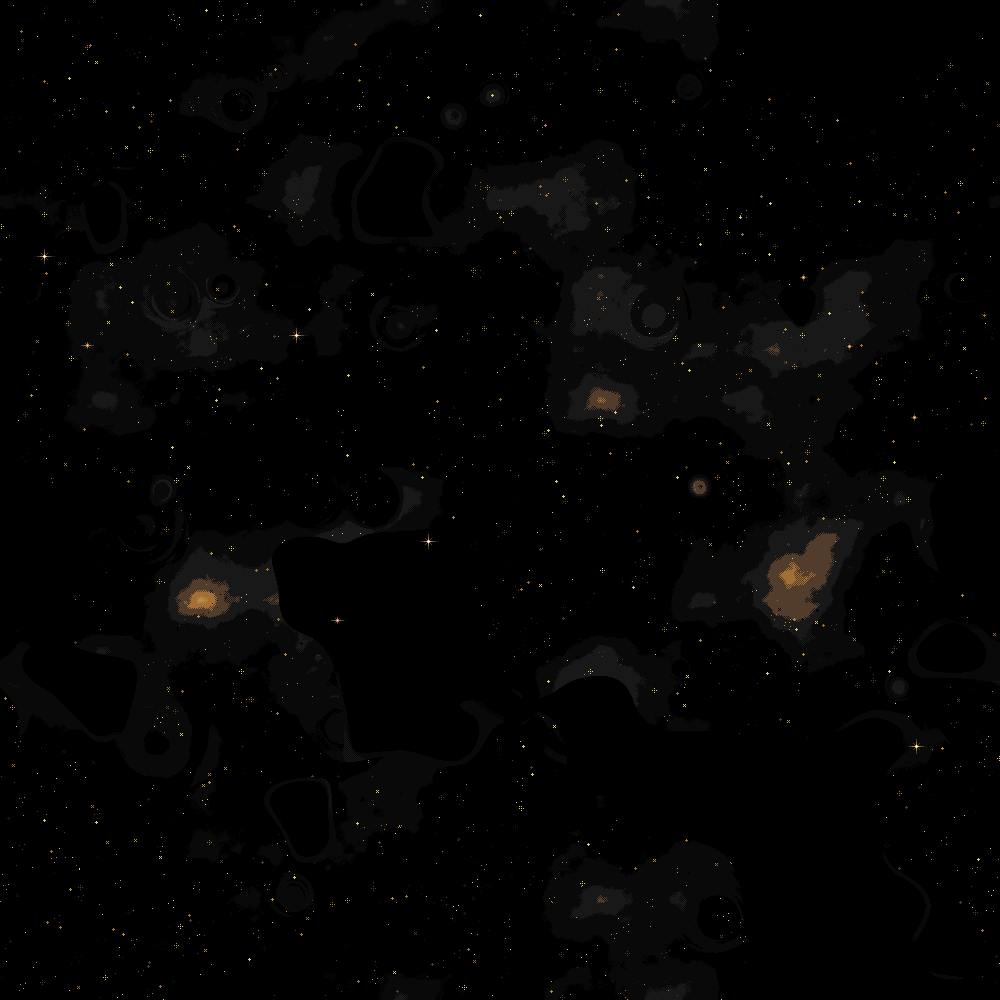
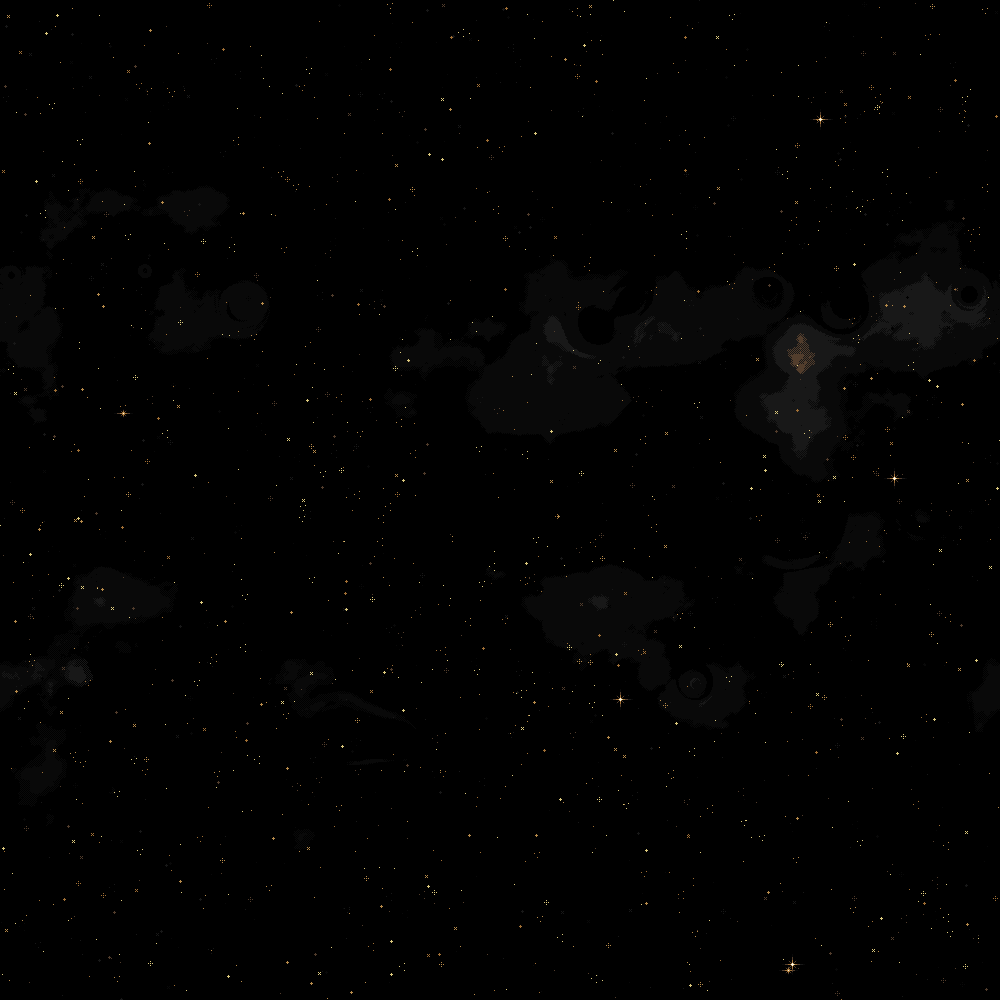
feat: add bg parallax

diff --git a/packages/client/src/screens/Game.tsx b/packages/client/src/screens/Game.tsx
@@ -9,6 +9,7 @@ import { GameProvider } from "src/hooks/providers/GameProvider";
 import { GameHUD } from "@/components/hud";
 import { WidgetProvider } from "src/hooks/providers/WidgetProvider";
 import { CommandBackgroundEffect } from "@/screens/CommandBackgroundEffect";
+import { BackgroundParallaxEffect } from "@/screens/BackgroundParallaxEffect";
 
 const params = new URLSearchParams(window.location.search);
 
@@ -65,16 +66,19 @@ export const Game = () => {
 
       {/* cannot unmount. needs to be visible for phaser to attach to DOM element */}
       <div id="game-container" className="screen-container">
-        <CommandBackgroundEffect />
-        <div id="phaser-container" className="cursor-pointer screen-container absolute">
-          {!!game && (
-            <GameProvider {...game}>
-              <WidgetProvider>
+        <div id="phaser-container" className="cursor-pointer screen-container absolute pointer-events-auto z-10"></div>
+        {!!game && (
+          <GameProvider {...game}>
+            <BackgroundParallaxEffect />
+            <CommandBackgroundEffect />
+            <WidgetProvider>
+              <div className="relative z-20 pointer-events-none">
                 {isDead && <YouDied />} <GameHUD />
-              </WidgetProvider>
-            </GameProvider>
-          )}
-        </div>
+                <div id="modal-root" className="pointer-events-auto" />
+              </div>
+            </WidgetProvider>
+          </GameProvider>
+        )}
       </div>
     </div>
   );

diff --git a/packages/client/src/screens/BackgroundParallaxEffect.tsx b/packages/client/src/screens/BackgroundParallaxEffect.tsx
@@ -1,0 +1,46 @@
+import { ModeToSceneKey } from "@/game/lib/mappings";
+import { useGame } from "@/hooks/useGame";
+import { components } from "@/network/components";
+import { lerp } from "@/util/common";
+import { Mode } from "@/util/constants";
+import { memo, useEffect, useRef } from "react";
+
+export const BackgroundParallaxEffect = memo(() => {
+  const selectedMode = components.SelectedMode.use()?.value;
+  const game = useGame();
+  const ref = useRef<HTMLDivElement>(null);
+
+  useEffect(() => {
+    const sceneKey = ModeToSceneKey[selectedMode ?? Mode.Starmap];
+
+    const worldViewSub = game[sceneKey].camera.worldView$.subscribe((worldView) => {
+      if (ref.current) {
+        ref.current.style.backgroundPosition = `${-worldView.x * 0.01}px ${-worldView.y * 0.01}px`;
+      }
+    });
+
+    const zoomViewSub = game[sceneKey].camera.zoom$.subscribe((zoom) => {
+      if (ref.current) {
+        ref.current.style.transform = `scale(${lerp(
+          zoom,
+          game[sceneKey].config.camera.minZoom,
+          game[sceneKey].config.camera.maxZoom,
+          1,
+          1.25
+        )})`;
+      }
+    });
+
+    return () => {
+      worldViewSub?.unsubscribe();
+      zoomViewSub?.unsubscribe();
+    };
+  }, [selectedMode, game]);
+
+  return (
+    <>
+      <div ref={ref} className="absolute top-0 left-0 w-full h-full bg-black" />;
+      <div ref={ref} className="absolute top-0 left-0 w-full h-full star-background opacity-40" />;
+    </>
+  );
+});

diff --git a/packages/client/src/components/hud/asteroid/index.tsx b/packages/client/src/components/hud/asteroid/index.tsx
@@ -16,20 +16,18 @@ export const AsteroidHUD = memo(() => {
   if (!inAsteroidMode) return null;
 
   return (
-    <div className={`screen-container relative`}>
-      <HUD scale={uiScale}>
-        {/* MARKERS */}
-        <BuildingMenuPopup />
-        <BlueprintInfoMarker />
+    <HUD scale={uiScale}>
+      {/* MARKERS */}
+      <BuildingMenuPopup />
+      <BlueprintInfoMarker />
 
-        <HUD.Right>
-          <Inventory />
-        </HUD.Right>
+      <HUD.Right>
+        <Inventory />
+      </HUD.Right>
 
-        <HUD.Left>
-          <Blueprints />
-        </HUD.Left>
-      </HUD>
-    </div>
+      <HUD.Left>
+        <Blueprints />
+      </HUD.Left>
+    </HUD>
   );
 });

diff --git a/packages/client/src/components/hud/starbelt/index.tsx b/packages/client/src/components/hud/starbelt/index.tsx
@@ -14,15 +14,13 @@ export const StarbeltHUD = memo(() => {
   if (!isStarbeltOpen) return null;
 
   return (
-    <div className={`screen-container relative`}>
-      <HUD scale={uiScale}>
-        {/* MARKERS */}
-        <AsteroidMenuPopup />
+    <HUD scale={uiScale}>
+      {/* MARKERS */}
+      <AsteroidMenuPopup />
 
-        <HUD.Right>
-          <StarmapNavigator />
-        </HUD.Right>
-      </HUD>
-    </div>
+      <HUD.Right>
+        <StarmapNavigator />
+      </HUD.Right>
+    </HUD>
   );
 });

diff --git a/packages/client/src/components/core/HUD.tsx b/packages/client/src/components/core/HUD.tsx
@@ -176,7 +176,7 @@ export const HUD: FC<HUDProps> & {
   return (
     <ScaleContext.Provider value={scale}>
       <div className={`screen-container ${paddingClass} fixed top-0 right-0 pointer-events-none`}>
-        <div className={`h-full relative`}>{children}</div>
+        <div className={`h-full relative pointer-events-none`}>{children}</div>
       </div>
     </ScaleContext.Provider>
   );

diff --git a/packages/client/src/components/hud/index.tsx b/packages/client/src/components/hud/index.tsx
@@ -7,12 +7,12 @@ import { AsteroidLoading } from "@/components/hud/asteroid/AsteroidLoading";
 
 export const GameHUD = memo(() => {
   return (
-    <>
+    <div>
       <AsteroidHUD />
       <StarbeltHUD />
       <CommandCenterHUD />
       <GlobalHUD />
       <AsteroidLoading />
-    </>
+    </div>
   );
 });

diff --git a/packages/client/index.html b/packages/client/index.html
@@ -18,7 +18,6 @@
   </head>
   <body style="background-color: rgb(55 65 81); overflow: hidden">
     <div id="react-root"></div>
-    <div id="modal-root"></div>
     <script type="module" src="/src/index.tsx"></script>
   </body>
 </html>

diff --git a/packages/client/src/App.tsx b/packages/client/src/App.tsx
@@ -52,7 +52,6 @@ export default function App() {
           <SetupResultProvider />
         </QueryClientProvider>
       </WagmiProvider>
-      <div id="modal-root" />
     </div>
   );
 }
